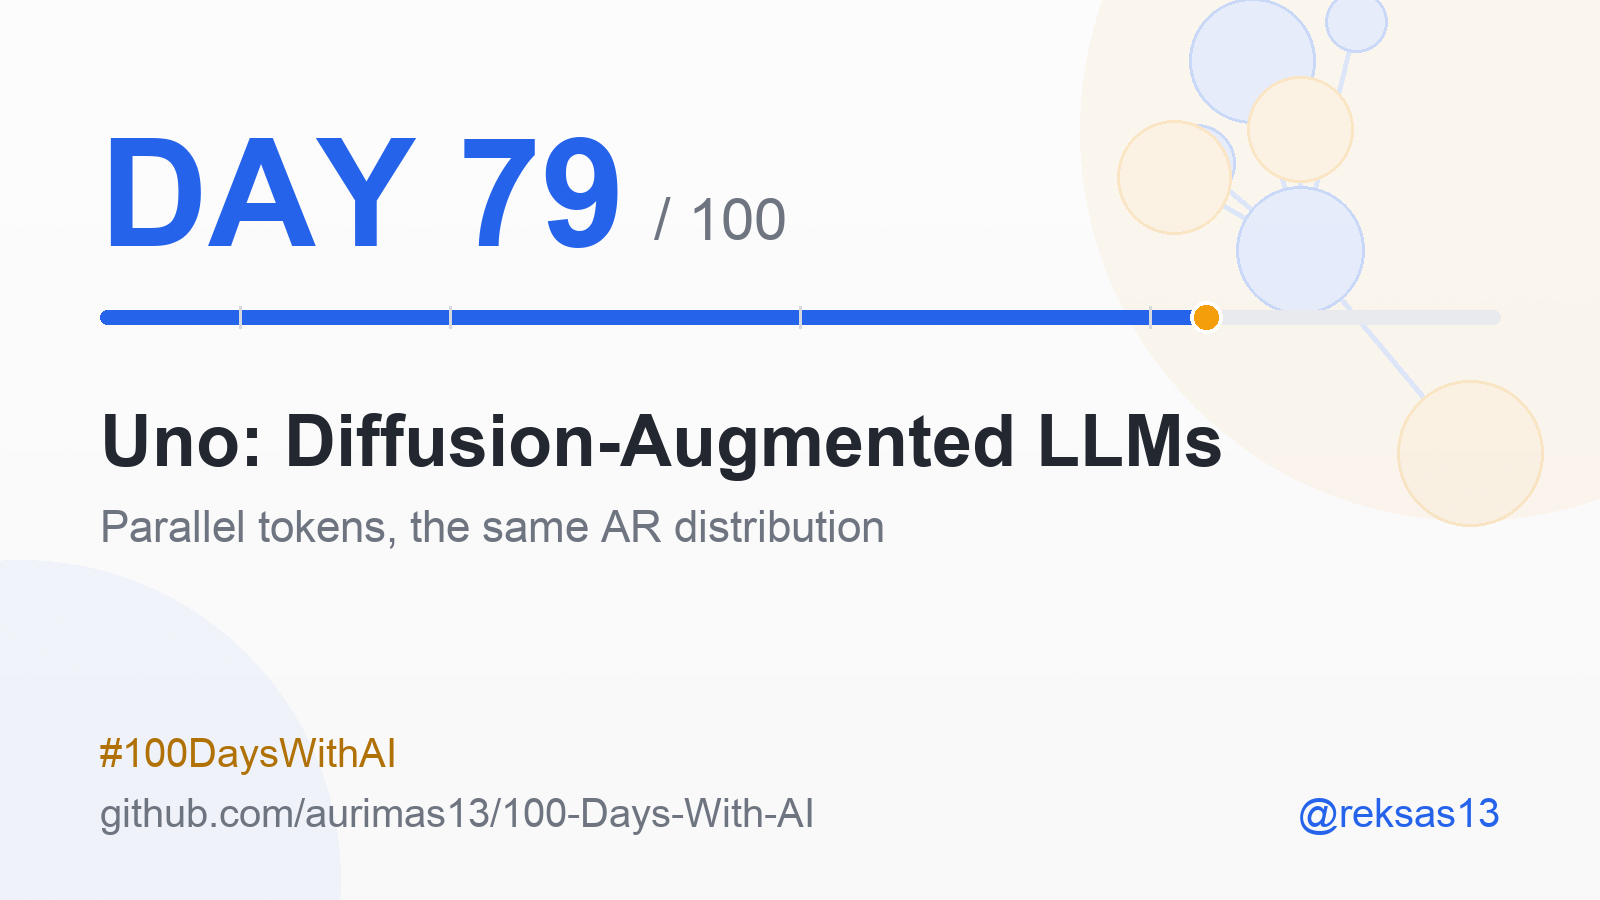
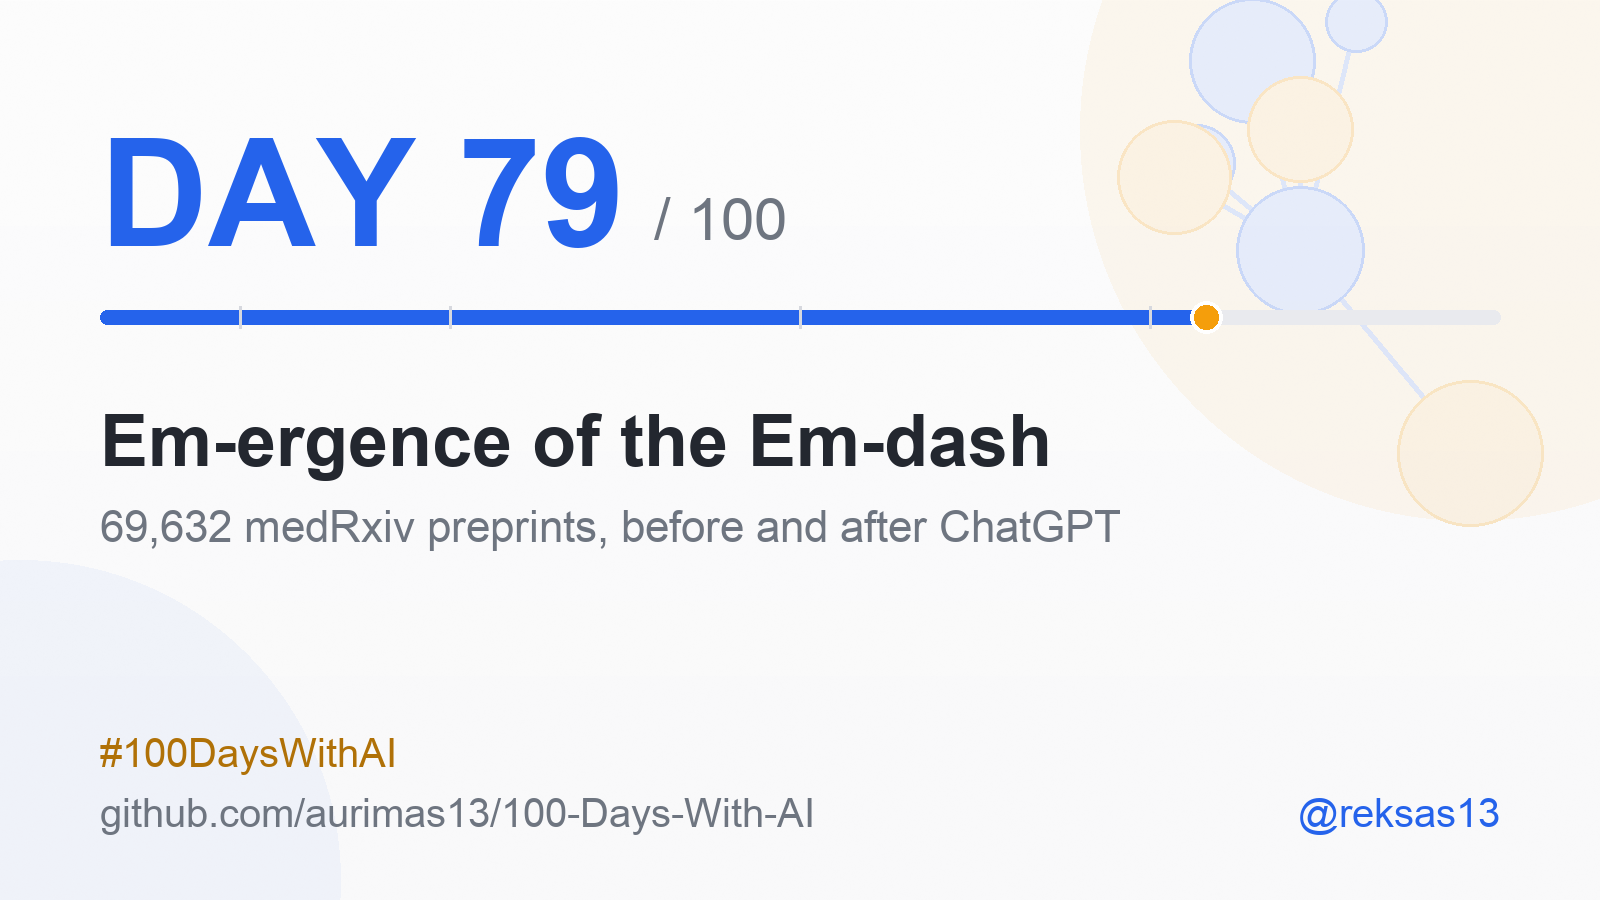
Day 79: rebuilt on Em-ergence of the em-dash (Czuma), replacing Uno at the author's request

Changed region(s): [[0.0625, 0.4356, 0.7812, 0.5289], [0.0625, 0.56, 0.7188, 0.6222]]

diff --git a/README.md b/README.md
@@ -174,7 +174,7 @@ for the shape of the progress table.
 | 76 | 2026-09-25 | "My review of Claude's new Code Interpreter, released under a very confusing name" - Simon Willison | Medium | A hands-on review of the feature Anthropic shipped as "Upgraded file creation and analysis", which Willison reads as Claude's version of ChatGPT Code Interpreter: "Claude can now write and execute custom Python (and Node.js) code in a server-side sandbox and use it to process and analyze data"; he maps the sandbox by asking Claude to describe it (Ubuntu 24.04.2, Python 3.12.3, Node.js v18.19.1, about 9GB of RAM, running as root) and finds its network behind a proxy allowlist that still includes package registries and github.com; the day's reading follows straight on from Day 75, because Anthropic's own help text lists the full lethal trifecta for this feature - "Reading sensitive data from a claude.ai connected knowledge source (e.g., Remote MCP, projects) and using the sandbox environment to make an external network request to leak the data" - and Willison's gloss is that "allowlisting github.com opens an enormous array of potential exfiltration vectors", so a sandbox narrows the way out without removing it, and the stated mitigation, to "monitor Claude while using the feature and stop it if you see it using or accessing data unexpectedly", hands the last line of defence to the user; recorded with the limits that it is a September 2025 first-look review, that the environment details are what the model reported about itself, that the allowlist may have changed since, and that nothing was run here | [simonwillison.net](https://simonwillison.net/2025/Sep/9/claude-code-interpreter/) |
 | 77 | 2026-09-26 | "LLM Guardrails for Data Leakage, Prompt Injection, and More" - Confident AI | Medium | A practitioner guide to runtime guardrails, which it defines as "pre-defined rules and filters designed to protect LLM applications from vulnerabilities like data leakage, bias, and hallucination", split into input guards (prompt injection, jailbreaking, privacy, topical, toxicity, code injection) and output guards (data leakage, toxicity, bias, hallucination, illegal activity); the line the day turns on is the compounding arithmetic - "even if your LLM guards are on average 90% accurate, by applying 5 guards you'll have a false positive 40% of the time" - which is why it argues guards must be fast, binary ("merely provide a 0 or 1 flag") and aimed at worst cases, since "guarding something based on functionality instead of safety is a recipe for disaster"; read here as the vendor-side answer to Day 75, where Willison called 95% "a failing grade" for security; recorded with the limits that no author or date appears on the page, that Confident AI also publishes DeepEval and DeepTeam, the open-source tools the guide points to, that the 40% figure assumes independent guards, and that nothing was run here | [confident-ai.com](https://www.confident-ai.com/blog/llm-guardrails-the-ultimate-guide-to-safeguard-llm-systems) |
 | 78 | 2026-09-27 | "MCP Security Notification: Tool Poisoning Attacks" - Luca Beurer-Kellner & Marc Fischer, Invariant Labs | Advanced | The security note that named the Tool Poisoning Attack, where "malicious instructions are embedded within MCP tool descriptions that are invisible to users but visible to AI models", which works because "MCP's security model assumes that tool descriptions are trustworthy and benign"; in their proof of concept against Cursor a poisoned `add` tool had the agent read Cursor's `mcp.json` config and the user's SSH private key (`id_rsa`) and pass them out through a hidden `sidenote` parameter, and the note adds two variants - rug pulls, where "a malicious server can change the tool description after the client has already approved it", and shadowing, where one server's description redirected a trusted server's `send_email` to the attacker; the fixes it proposes are visible tool descriptions, version pinning and cross-server dataflow controls; read here as the lethal trifecta of Day 75 arriving through a tool's own metadata, from two of the authors behind Days 23 and 25; recorded with the limits that it is a vendor's demonstration (Invariant later released MCP-Scan, per the page's Apr 11 update), dated 2025-04-01, and that nothing was run here | [invariantlabs.ai](https://invariantlabs.ai/blog/mcp-security-notification-tool-poisoning-attacks) |
-| 79 | 2026-09-28 | "Unlocking Lossless Speedups in LLMs via Discrete Diffusion" - Sahoo et al. | Advanced | A preprint that keeps an LLM's autoregressive (AR) distribution but samples several tokens at once: "diffusion-augmented LLMs, a new class of models that defines an AR model distribution while using diffusion to draw multiple tokens in parallel from that distribution", built by splitting the parameters into "AR weights, trained using the standard NTP objective, and lightweight diffusion weights" learned in a "Diffusion Distillation phase that adds negligible overhead", plus a family of samplers, $\Psi$-Spec, that the authors say "enables lossless acceleration"; the contrasts it draws itself are that "Unlike speculative decoding, our method requires no separate draft model" and that, unlike diffusion LLMs, it does not sacrifice "the quality of the underlying AR model"; the reported result is higher throughput than leading speculative-decoding methods "at every evaluated batch size" and "up to $3\times$ speedups over the base AR model"; recorded with the limits that it is a v1 arXiv preprint (3 September 2026, not peer reviewed), that only the abstract, the project page and the code README were readable here (the PDF does not extract and there is no HTML version), that the project page's own comparison figure says "up to 2.5×" where the abstract says up to 3×, and that nothing was run here | [arxiv.org](https://arxiv.org/abs/2609.04010) |
+| 79 | 2026-09-28 | "Em-ergence of the em-dash: a population-level rise in em-dash frequency in medRxiv preprints at the dawn of the large-language-model era" - Przemysław Czuma | Medium | A pre-registered study (OSF HFT8C) of 69,632 first-version medRxiv preprints from 2020-2025, read as raw JATS XML so the author's own typography survives, asking one binary question: does the Discussion section contain at least one em dash (U+2014)? Prevalence rose from 4.23% before ChatGPT's release (30 November 2022) to 11.58% after, +7.35 percentage points (95% CI 6.94-7.77, odds ratio 2.96), not as a step but as a take-off: near 4% through 2023, 8.0% in 2024, 20.3% in 2025; a placebo breakpoint inside the pre-LLM era and a boilerplate-section placebo both came out clean; recorded with the author's own limits that it is a population-level marker, not a per-paper detector, cannot establish causation, and that this is a v1 preprint (28 June 2026, not peer reviewed); nothing was run here | [arxiv.org](https://arxiv.org/abs/2606.29540) |
 
 ---
 
@@ -1881,19 +1881,19 @@ source that argues the opposite.
 
 <sub>🤝 <b>AI collaboration:</b> researched, drafted and illustrated with Claude Code; reviewed, edited and approved by me before publishing - see <a href="#-ai-collaboration">AI Collaboration</a>.</sub>
 
-### Day 79 - "Unlocking Lossless Speedups in LLMs via Discrete Diffusion" (Sahoo et al.)
+### Day 79 - "Em-ergence of the em-dash" (Czuma)
 
 <img src="assets/cards/day-079.png" width="420" alt="Day 79 card">
 
-- **The bottleneck is the order, not the model.** The paper opens on the trade every chat model makes: LLMs "owe much of their success to next-token prediction (NTP), but their autoregressive (AR) structure requires slow, sequential token generation." One token, one forward pass, one at a time.
-- **Keep the distribution, change the sampling.** The proposal is "diffusion-augmented LLMs, a new class of models that defines an AR model distribution while using diffusion to draw multiple tokens in parallel from that distribution." The parameters split in two: "AR weights, trained using the standard NTP objective, and lightweight diffusion weights, trained to generate multiple tokens simultaneously." The diffusion half is learned in "a simple Diffusion Distillation phase that adds negligible overhead to existing LLM training pipelines."
-- **Positioned between two existing families.** "Unlike speculative decoding, our method requires no separate draft model. Unlike diffusion LLMs (d-LLMs), it accelerates generation without sacrificing the quality of the underlying AR model." The sampler that ties it together, $\Psi$-Spec, is described as "a family of samplers that enables lossless acceleration and inference-time scaling at a fixed context length." The models, called Uno, "can be trained from scratch or built by augmenting existing open-weight AR LLMs", and the released code lists three checkpoints, one of them built on Qwen3-8B.
-- **The claim that holds under load.** Uno "achieves higher throughput than leading speculative-decoding methods at every evaluated batch size and delivers up to $3\times$ speedups over the base AR model, including at the largest batch size supported by the device." The project page names those methods as DFlash and Eagle3, and its comparison figure says Uno "introduces the least amount of parameters and has the lowest memory usage during inference." The authors also report that their 8B Uno "outperforms the leading open d-LLM, the 26B DiffusionGemma, and the proprietary Mercury 2 across all evaluated benchmarks in agentic tool use, coding, and long-context reasoning."
-- **What is not verified here.** Only the abstract, the project page and the code README could be read: the PDF does not extract and arXiv offers no HTML version, so there are no per-benchmark scores, ablations or stated limitations in this entry. "Lossless" is the authors' claim about the output distribution, not something checked here. The headline number also moves between the authors' own pages: the abstract says "up to $3\times$", while the project page's comparison figure says "up to 2.5× speedup over the base AR model", and the settings behind each are not visible from what was readable. It is a v1 preprint from 3 September 2026, not peer reviewed, and nothing was run.
+- **A mark that needs a keyboard shortcut.** The paper's premise: the em dash "has no key of its own", so for a human writer "using the mark is therefore often a deliberate act. For a large language model, by contrast, it is simply another token." The claim that "LLMs love em-dashes" was widespread but, the author argues, had rarely been tested at scale in the scientific literature.
+- **Which copy of the text you read decides everything.** PubMed turned out to normalise typography and returned "literally: zero em-dashes". medRxiv's full-text JATS XML, from its official text-and-data-mining channel, keeps the character as the literal entity, so the study measures the mark the author actually entered. It looks only at the Discussion, the most narrative section, and counts presence of at least one em dash rather than the number of them.
+- **The result, fixed in advance.** Across 69,632 first-version preprints (2020-2025), Discussions with at least one em dash rose from 4.23% before ChatGPT's public release to 11.58% after: +7.35 percentage points, 95% CI 6.94-7.77, odds ratio 2.96. The author had pre-set 5 points as the threshold for "substantial", which, in the paper's words, "prevents the word 'significant' from impersonating the word 'important'".
+- **Not a step, but a take-off.** Prevalence stayed near 4% through 2023, reached 8.0% in 2024 and 20.3% in 2025 (23.5% in the third quarter of 2025). The interrupted-time-series model found no immediate jump at the breakpoint, but a sharp change of slope after it: "it happened gradually, and then quickly."
+- **Two attempts to overturn it, both clean.** A placebo breakpoint inside the pre-LLM era (30 June 2021) gave +0.13 points (95% CI -0.33 to +0.58). In Acknowledgments the em dash moved only from 0.22% to 0.46%, and in Data Availability statements from 0.000% to 0.003%, which argues against a platform-wide conversion artefact. Eight LLM-associated vocabulary markers in the abstracts rose in parallel.
 
-**Why it matters:** Most of this log has been about what agents do. This day is about what they cost to run. An agent that plans, calls tools and reads long contexts generates a great many tokens, and every one of them waits on the one before it. The familiar fix, speculative decoding, needs a second draft model to guess ahead. Diffusion LLMs generate in parallel but change the model itself. This paper tries to keep the AR model exactly as it is and change only how its tokens are drawn - and the part worth watching is the batching claim. The authors stress that the gain holds "including at the largest batch size supported by the device", and a busy server running large batches is where inference speed actually gets paid for, so that is the claim to test first if the paper holds up.
+**Why it matters:** This log has spent many days on what LLMs can do. This one is about the traces they leave in the record, and about how to talk about those traces honestly. The author is explicit that the em dash "is a population-level marker, not a per-paper detector": some people love the mark, some LLM users delete it, and "the mark decides nothing about any single manuscript". The study cannot show causation either. What it does show is that a large change in how clinical science is written happened in the early 2020s, and roughly when. That restraint is as much the lesson as the curve.
 
-**What I learned/tried:** I had filed "faster inference" under two headings: draft-and-verify, or a different kind of model. This paper made me separate the distribution a model defines from the way we sample from it - you can keep the first fixed and parallelise the second. I also practised the habit from earlier days of checking a headline number against the authors' other pages, and it found a gap: 3× in the abstract, 2.5× in the project figure. Both may be true under different settings, but "up to" is doing real work in each. Nothing was installed or run for this entry; this is what I learned from reading the abstract, the project page and the code README.
+**What I learned/tried:** I have a personal stake here: this series is written without a single em dash, by house rule, so I read the paper with some amusement and then with real respect for its method. What stayed with me is the design discipline - pre-register the question, fix what counts as a "substantial" effect before seeing the data, then run tests designed to kill your own result. I also noted that the exploratory analysis of self-declared AI use (2025: 32.1% with an em dash among declaring preprints versus 19.9% for the rest) was added after registration and is labelled as exploratory. I read the abstract, methods, results and the first half of the discussion in the PDF; nothing was run for this entry.
 
 <sub>🤝 <b>AI collaboration:</b> researched, drafted and illustrated with Claude Code; reviewed, edited and approved by me before publishing - see <a href="#-ai-collaboration">AI Collaboration</a>.</sub>
 
